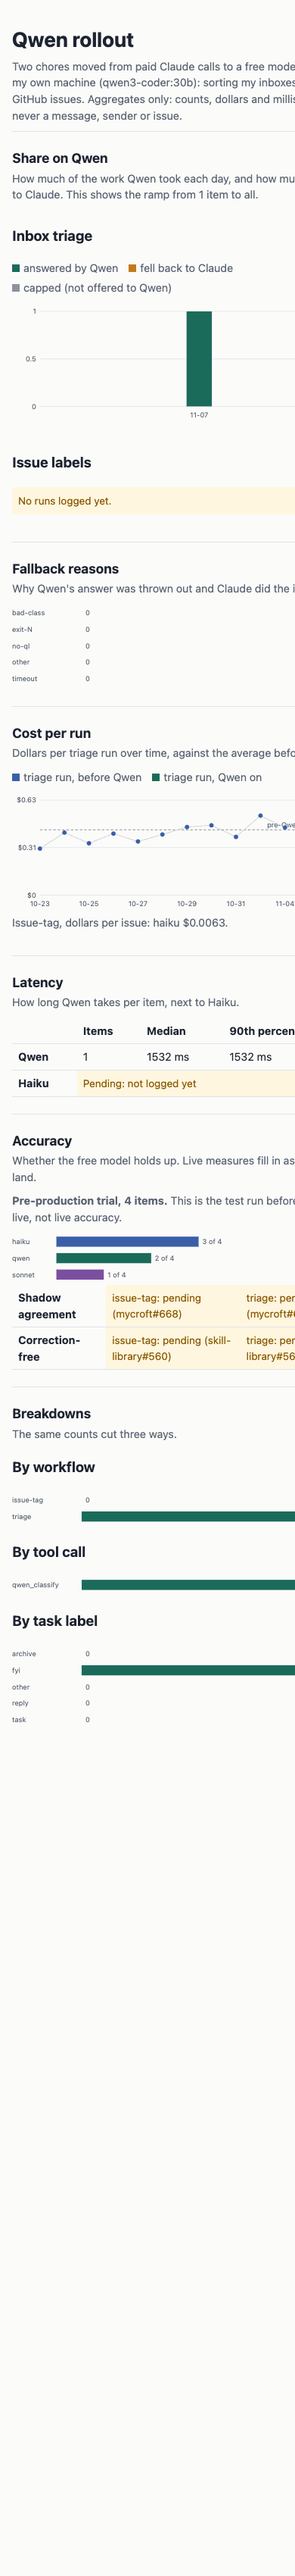
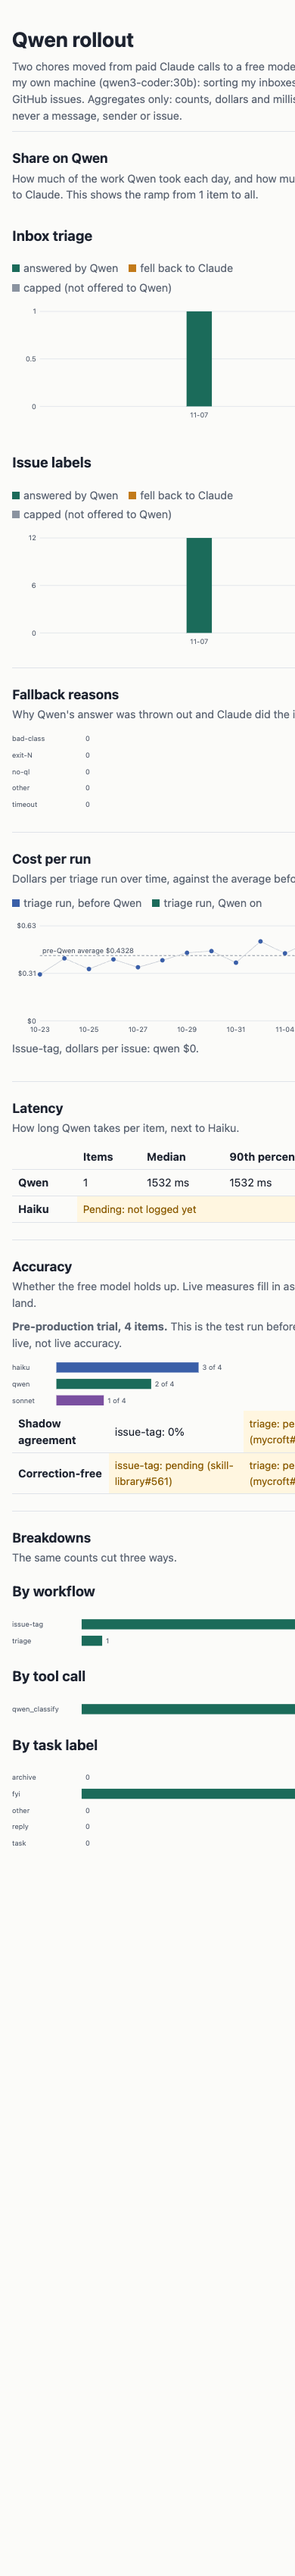
qwen-state: read the tagger's qwen=N log line and several log paths; triage accuracy from mycroft#670 rows; per-workflow pending links; regen data and screenshots
Claude-Session: https://claude.ai/code/session_01CdKiT4uM8E66mncXeX95U1

diff --git a/bin/qwen-state.py b/bin/qwen-state.py
@@ -16,8 +16,9 @@ HOME = os.path.expanduser("~")
 RUNS = os.environ.get("QWEN_RUNS", f"{HOME}/worktrees/mycroft/live/cos/runs")
 COST_DB = os.environ.get("QWEN_COST_DB", f"{HOME}/worktrees/mycroft/live/cos/state/cost.db")
 TAG_DIR = f"{HOME}/worktrees/skill-library/live/write-work-items/scripts"
-TAG_LOG = os.environ.get("QWEN_TAG_LOG", f"{TAG_DIR}/issue-tag.log")
-TAG_JSONL = os.environ.get("QWEN_TAG_JSONL", f"{TAG_DIR}/issue-tag.jsonl")
+# Paths may be a colon-separated list (the tagger logs into the worktree it runs from until its PRs merge).
+TAG_LOGS = os.environ.get("QWEN_TAG_LOG", f"{TAG_DIR}/issue-tag.log").split(":")
+TAG_JSONLS = os.environ.get("QWEN_TAG_JSONL", f"{TAG_DIR}/issue-tag.jsonl").split(":")
 
 LABELS = {"reply", "task", "fyi", "archive"}  # triage task labels (fixed set; anything else -> other)
 REASONS = ["bad-class", "timeout", "exit-N", "no-ql", "other"]
@@ -39,13 +40,14 @@ def day(ts):
 
 
 def rows(path):
-    try:
-        with open(path) as f:
-            for line in f:
-                try: yield json.loads(line)
-                except ValueError: pass
-    except OSError:
-        return
+    for p in path if isinstance(path, list) else [path]:
+        try:
+            with open(p) as f:
+                for line in f:
+                    try: yield json.loads(line)
+                    except ValueError: pass
+        except OSError:
+            continue
 
 
 def day_of_run(path):
@@ -106,16 +108,18 @@ def _load(p):
 
 def issue_tag():
     share = defaultdict(lambda: {"answered": 0, "fell_back": 0, "capped": 0})
-    for line in open(TAG_LOG) if os.path.exists(TAG_LOG) else []:
+    lines = [l for p in TAG_LOGS if os.path.exists(p) for l in open(p)]
+    for line in lines:
         m = re.match(r"\[(\d{4}-\d{2}-\d{2})T", line)
         if not m: continue
-        q = re.search(r"qwen_used=(\d+)", line); f = re.search(r"fallback_to_haiku=(\d+)", line); h = re.search(r"haiku_direct=(\d+)", line)
+        # The log line says qwen=N fallback=N haiku=N; the script's stdout summary says qwen_used= fallback_to_haiku= haiku_direct=.
+        q = re.search(r"qwen(?:_used)?=(\d+)", line); f = re.search(r"fallback(?:_to_haiku)?=(\d+)", line); h = re.search(r"haiku(?:_direct)?=(\d+)", line)
         if not q: continue
         share[m[1]]["answered"] += int(q[1])
         share[m[1]]["fell_back"] += int(f[1]) if f else 0
         share[m[1]]["capped"] += int(h[1]) if h else 0
     models, per_run_cost = defaultdict(lambda: {"items": 0, "usd": 0.0}), 0
-    for r in rows(TAG_JSONL):
+    for r in rows(TAG_JSONLS):
         if r.get("kind"): continue  # applied / correction rows: see tag_accuracy()
         m = "qwen" if "qwen" in str(r.get("model", "")).lower() else "haiku"
         models[m]["items"] += 1
@@ -126,13 +130,26 @@ def issue_tag():
 def tag_accuracy():
     """skill-library#561 rows in issue-tag.jsonl. Returns (shadow agreement %, correction-free %); None until rows exist.
     Per-item fields (repo, number, labels) are read only to count; none is returned."""
-    match = [r["pair"]["match"] for r in rows(TAG_JSONL)
+    match = [r["pair"]["match"] for r in rows(TAG_JSONLS)
              if not r.get("kind") and isinstance(r.get("pair"), dict) and isinstance(r["pair"].get("match"), bool)]
-    applied = sum(1 for r in rows(TAG_JSONL) if r.get("kind") == "applied" and "qwen" in str(r.get("model", "")).lower())
-    fixed = len({(r.get("repo"), r.get("number")) for r in rows(TAG_JSONL)
+    applied = sum(1 for r in rows(TAG_JSONLS) if r.get("kind") == "applied" and "qwen" in str(r.get("model", "")).lower())
+    fixed = len({(r.get("repo"), r.get("number")) for r in rows(TAG_JSONLS)
                  if r.get("kind") == "correction" and "qwen" in str(r.get("model_of_origin", "")).lower()})
     agree = round(100 * sum(match) / len(match), 1) if match else None
     clean = round(100 * max(applied - fixed, 0) / applied, 1) if applied else None
+    return agree, clean
+
+
+def triage_accuracy(answered):
+    """mycroft#670 rows in cos/runs/*.audit.jsonl. Returns (agreement %, correction-free %); None until rows exist.
+    Per-message fields (id, issue, labels) are never read into the output."""
+    files = sorted(glob.glob(f"{RUNS}/*.audit.jsonl"))
+    match = [r["match"] for p in files for r in rows(p) if r.get("tool") == "qwen_pair" and isinstance(r.get("match"), bool)]
+    has_corr_file = os.path.exists(f"{RUNS}/corrections.audit.jsonl")
+    fixed = len({r.get("id") for p in files for r in rows(p)
+                 if r.get("tool") == "qwen_correction" and "qwen" in str(r.get("model_of_origin", "")).lower()})
+    agree = round(100 * sum(match) / len(match), 1) if match else None
+    clean = round(100 * max(answered - fixed, 0) / answered, 1) if has_corr_file and answered else None
     return agree, clean
 
 
@@ -146,6 +163,7 @@ def build():
     c = costs()
     qdays = qwen_run_days()
     agree, clean = tag_accuracy()
+    t_agree, t_clean = triage_accuracy(len(lat))
     pre = [v for d, v in c.items() if d not in qdays]
     post = [v for d, v in c.items() if d in qdays]
     avg = lambda vs: (round(sum(v["usd"] for v in vs) / max(sum(v["runs"] for v in vs), 1), 4) if vs else None)
@@ -174,10 +192,13 @@ def build():
         # Pre-production trial (pedal#569), correct answers out of 4. Labelled as a trial on the page.
         "accuracy": {
             "trial": {"label": "Pre-production trial, 4 items", "correct_of_4": {"haiku": 3, "qwen": 2, "sonnet": 1}},
-            # issue-tag filled from skill-library#561 rows; triage slots wait on mycroft#668. null = not landed.
-            "shadow_agreement_pct": {"triage": None, "issue-tag": agree},  # triage: mycroft#668
-            "correction_free_pct": {"triage": None, "issue-tag": clean},  # triage: mycroft#668
-            "pending": {"shadow_agreement_pct": "mycroft#668", "correction_free_pct": "mycroft#668"},
+            # issue-tag from skill-library#561 rows, triage from mycroft#670 rows. null = rows not landed.
+            "shadow_agreement_pct": {"triage": t_agree, "issue-tag": agree},
+            "correction_free_pct": {"triage": t_clean, "issue-tag": clean},
+            "pending": {  # each workflow points at the issue that feeds it
+                "shadow_agreement_pct": {"triage": "mycroft#668", "issue-tag": "skill-library#561"},
+                "correction_free_pct": {"triage": "mycroft#668", "issue-tag": "skill-library#561"},
+            },
         },
     }
 
